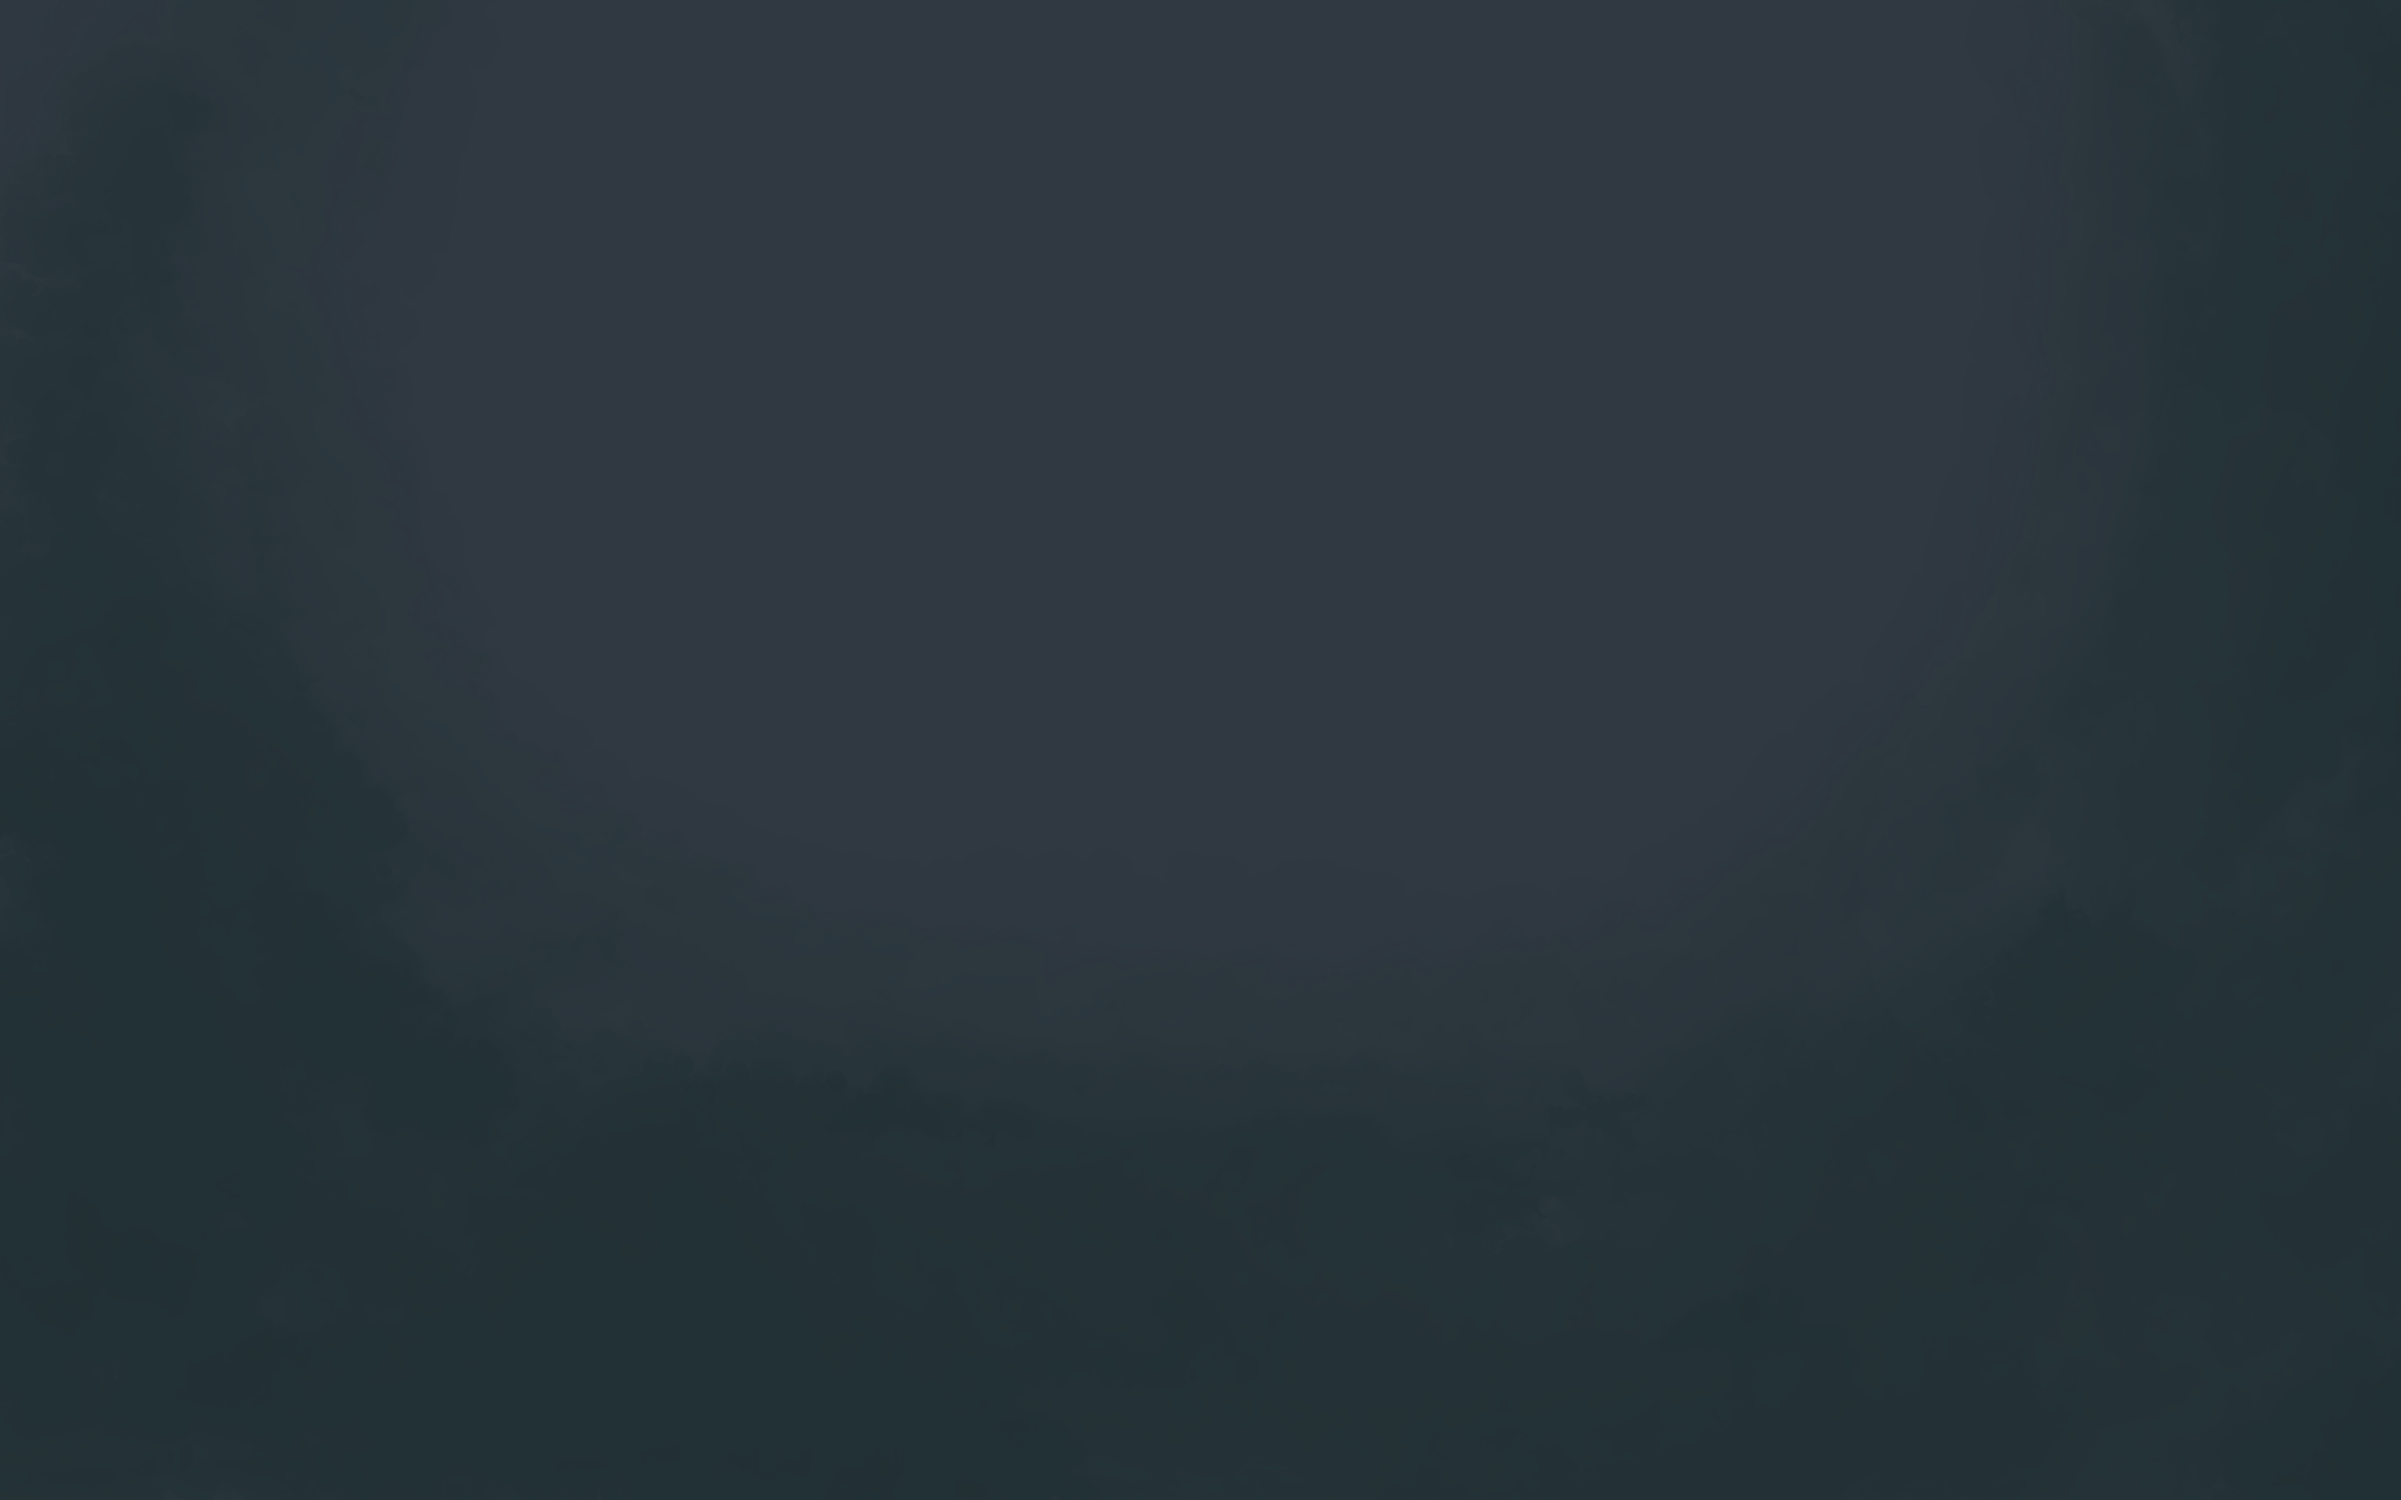
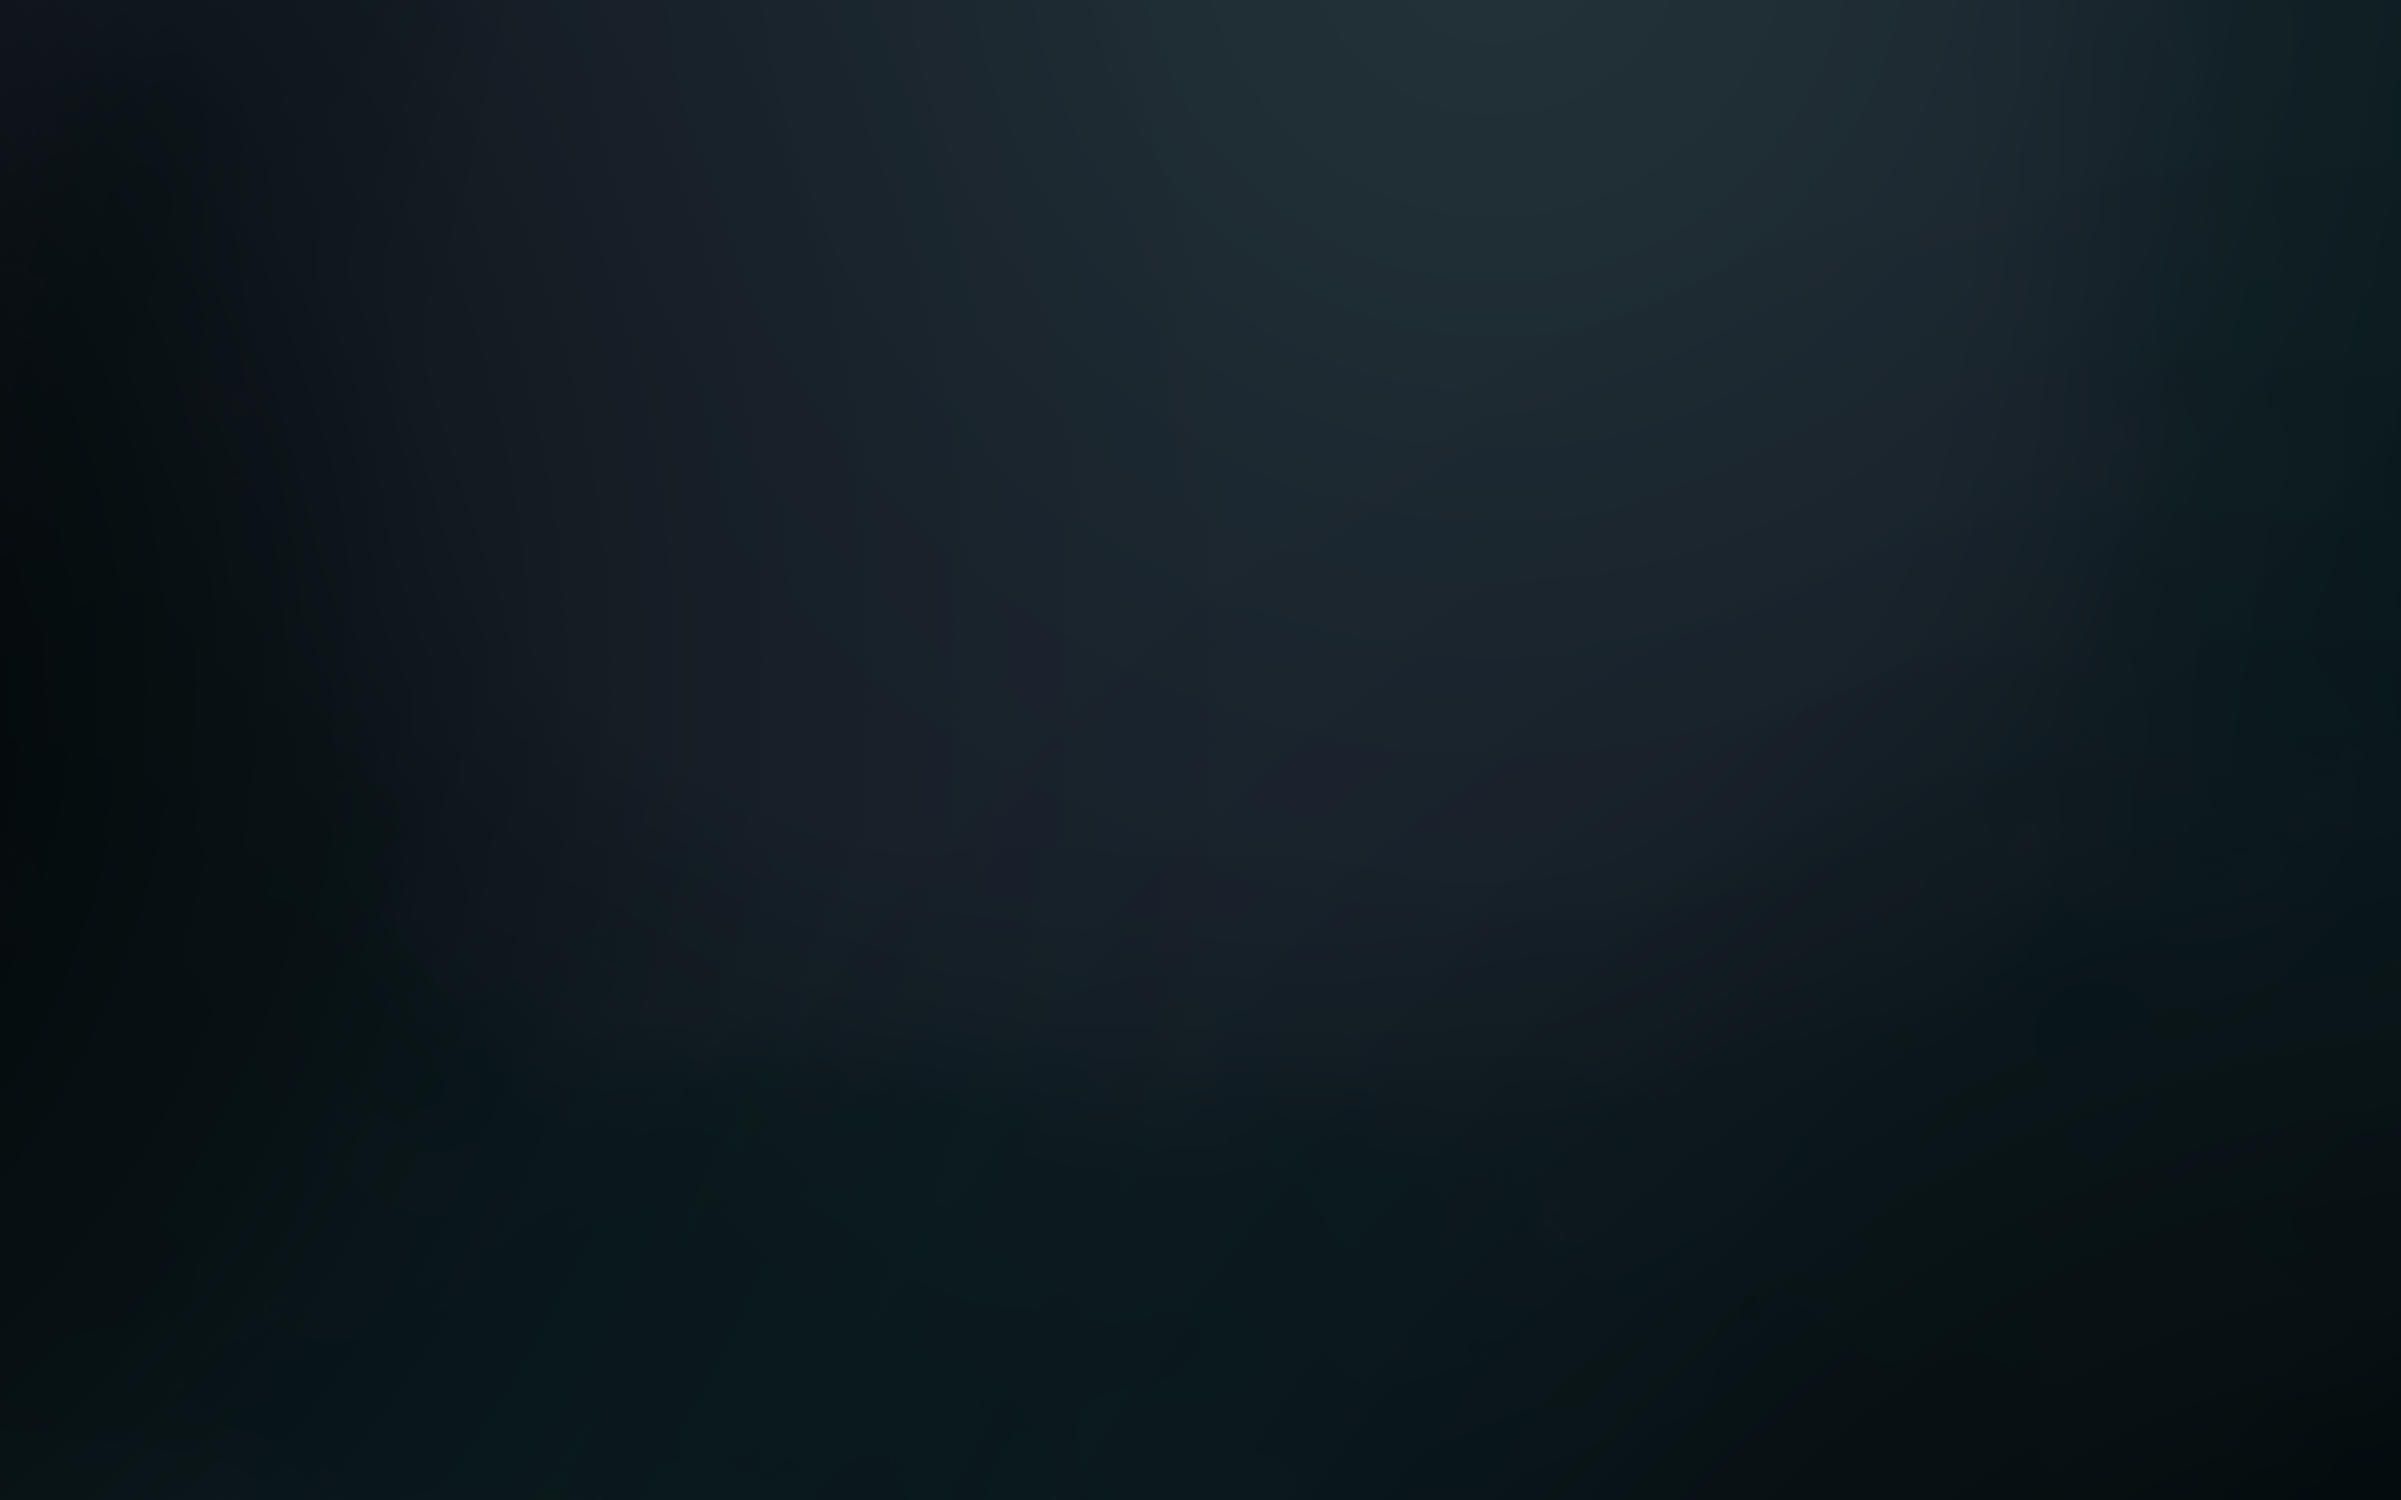
Es läääääöuuuuuuuft

diff --git a/algorithm.py b/algorithm.py
@@ -9,10 +9,14 @@ def algorithm(screen, setting, screenwidth, screenheight):
     canvas(screen, setting, part, screenwidth, screenheight)
     part = "background"
     background(screen, setting, part, screenwidth, screenheight)
-    part = "athmosphere"
+    part = "athmo"
     athmo(screen, setting, part, screenwidth, screenheight)
     part = "middle"
     middle(screen, setting, part, screenwidth, screenheight)
+    part = "foreground"
+    foreground(screen, setting, part, screenwidth, screenheight)
+    part = "frame"
+    frame(screen, setting, part, screenwidth, screenheight)
     
     if not os.path.exists('output'):
         os.makedirs('output')
@@ -38,7 +42,7 @@ def background(screen, setting, part, screenwidth, screenheight):
         background(screen, setting, part, screenwidth, screenheight)
         
 def athmo(screen, setting, part, screenwidth, screenheight):
-    random_recursion = random.randint(0,4)
+    random_recursion = random.randint(0,3)
     random_background = random.randint(0, 3)
     randy = random.randint(-25,25)
     randx = random.randint((-screenwidth)/2,screenwidth/2)
@@ -48,7 +52,7 @@ def athmo(screen, setting, part, screenwidth, screenheight):
         athmo(screen, setting, part, screenwidth, screenheight)
         
 def middle(screen, setting, part, screenwidth, screenheight):
-    random_recursion = random.randint(0,10)
+    random_recursion = random.randint(0,4)
     random_background = random.randint(0, 3)
     randy = random.randint(-25,25)
     randx = random.randint((-screenwidth)/2,screenwidth/2)
@@ -57,4 +61,20 @@ def middle(screen, setting, part, screenwidth, screenheight):
     if random_recursion>0:
         middle(screen, setting, part, screenwidth, screenheight)
 
+def foreground(screen, setting, part, screenwidth, screenheight):
+    random_recursion = random.randint(0,6)
+    random_background = random.randint(0, 3)
+    randy = random.randint(-25,25)
+    randx = random.randint((-20),20)
+    flip = random.randint(0, 1)
+    ImageMaker.blit_image(screen, setting, part, random_background, screenwidth, screenheight, 0+randx, 0+randy, flip)
+    if random_recursion>0:
+        foreground(screen, setting, part, screenwidth, screenheight)
 
+def frame(screen, setting, part, screenwidth, screenheight):
+    random_recursion = random.randint(0,4)
+    random_background = random.randint(0, 3)
+    flip = random.randint(0, 1)
+    ImageMaker.blit_image(screen, setting, part, random_background, screenwidth, screenheight, 0, 0, flip)
+    if random_recursion>0:
+        frame(screen, setting, part, screenwidth, screenheight)
